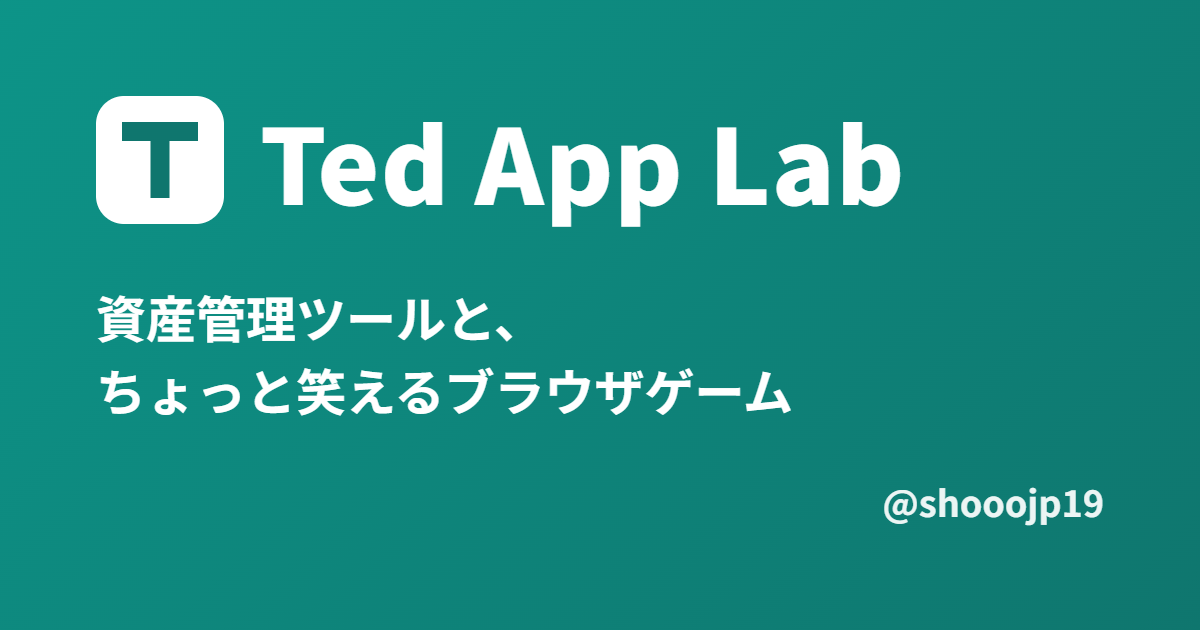
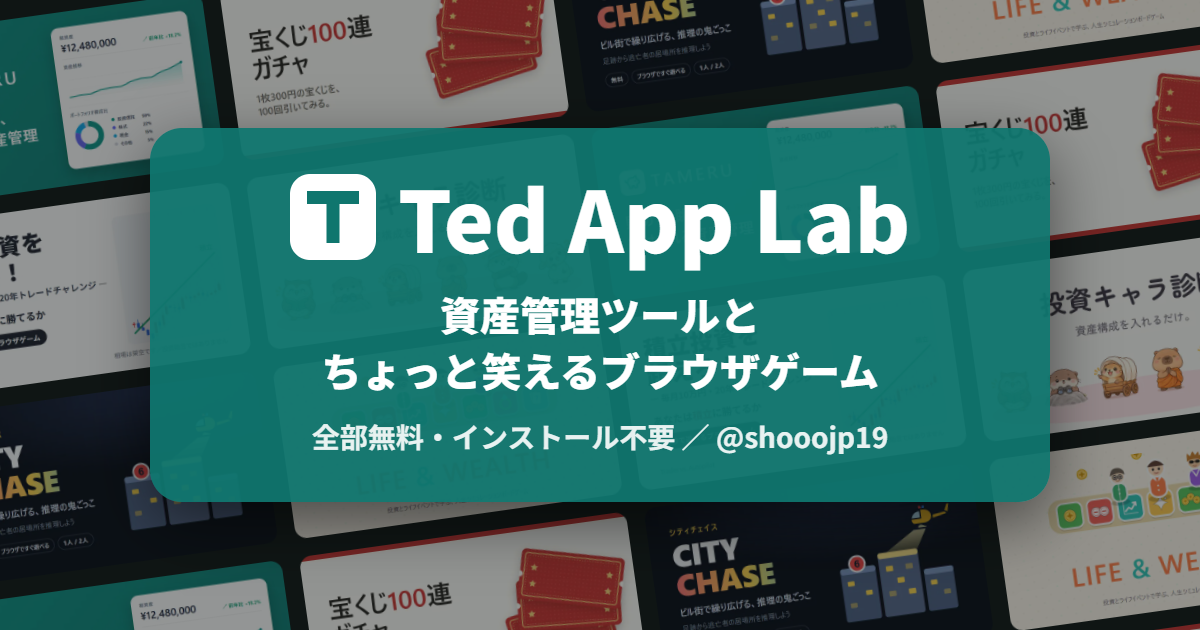
Redo the site preview image with app screenshots (U17, v1.0.1)
The text-only og.png did not say what the site is. The new one tiles
six app images behind the site name, as chosen by the owner.

diff --git a/scripts/og/og.html b/scripts/og/og.html
@@ -1,5 +1,6 @@
 <!doctype html>
 <!-- サイトの OGP 画像の元（設計書 6.1）。npm run og で 1200×630 の public/og.png にする -->
+<!-- 背景に並べるアプリ（オーナーが決定、2026-11-13）：TAMERU・積立投資を超えろ！・宝くじ100連ガチャ・LIFE & WEALTH・投資キャラ診断・シティチェイス -->
 <html lang="ja">
 <head>
 <meta charset="UTF-8">
@@ -8,31 +9,81 @@
   body {
     width: 1200px;
     height: 630px;
-    box-sizing: border-box;
-    padding: 96px 96px 72px;
-    display: flex;
-    flex-direction: column;
-    background: linear-gradient(135deg, #0d9488 0%, #0f766e 100%);
+    overflow: hidden;
+    position: relative;
+    background: #0f1514;
     color: #ffffff;
     font-family: 'Noto Sans JP', 'Hiragino Sans', 'Yu Gothic UI', 'Meiryo', sans-serif;
   }
-  .brand { display: flex; align-items: center; gap: 36px; }
+  /* アプリの画像を傾けて敷き詰め、暗くする */
+  .wall {
+    position: absolute;
+    inset: -60px -80px;
+    display: grid;
+    grid-template-columns: repeat(4, 330px);
+    gap: 18px;
+    transform: rotate(-8deg);
+    opacity: 0.55;
+  }
+  .wall img { width: 330px; height: 173px; border-radius: 12px; object-fit: cover; }
+  .panel {
+    position: absolute;
+    left: 50%;
+    top: 50%;
+    transform: translate(-50%, -50%);
+    width: 900px;
+    box-sizing: border-box;
+    padding: 46px 56px;
+    border-radius: 32px;
+    background: rgba(15, 118, 110, 0.94);
+    box-shadow: 0 20px 60px rgba(0, 0, 0, 0.5);
+    text-align: center;
+  }
+  .brand { display: flex; align-items: center; justify-content: center; gap: 22px; }
   .logo {
-    width: 128px; height: 128px; border-radius: 28px; background: #ffffff;
+    width: 86px; height: 86px; border-radius: 20px; background: #ffffff;
     display: flex; align-items: center; justify-content: center;
   }
-  .logo svg { width: 76px; height: 76px; }
-  h1 { margin: 0; font-size: 104px; font-weight: 800; letter-spacing: 0.01em; line-height: 1; }
-  .sub { margin-top: 56px; font-size: 50px; font-weight: 700; line-height: 1.45; }
-  .handle { margin-top: auto; align-self: flex-end; font-size: 36px; font-weight: 600; opacity: 0.92; }
+  .logo svg { width: 52px; height: 52px; }
+  h1 { margin: 0; font-size: 84px; font-weight: 800; line-height: 1; }
+  .sub { margin: 26px 0 0; font-size: 40px; font-weight: 800; line-height: 1.4; }
+  .note { margin: 18px 0 0; font-size: 28px; font-weight: 700; opacity: 0.9; }
 </style>
 </head>
 <body>
-  <div class="brand">
-    <div class="logo"><svg viewBox="16 17 32 32"><path d="M16 17h32v8H36v24h-8V25H16z" fill="#0f766e"/></svg></div>
-    <h1>Ted App Lab</h1>
+  <div class="wall">
+    <img src="../../public/images/tameru.webp" alt="">
+    <img src="../../public/images/takarakuji-gacha.webp" alt="">
+    <img src="../../public/images/city-chase.webp" alt="">
+    <img src="../../public/images/life-wealth.webp" alt="">
+    <img src="../../public/images/trader-vs-autopilot.webp" alt="">
+    <img src="../../public/images/portfolio-pals.webp" alt="">
+    <img src="../../public/images/tameru.webp" alt="">
+    <img src="../../public/images/takarakuji-gacha.webp" alt="">
+    <img src="../../public/images/city-chase.webp" alt="">
+    <img src="../../public/images/life-wealth.webp" alt="">
+    <img src="../../public/images/trader-vs-autopilot.webp" alt="">
+    <img src="../../public/images/portfolio-pals.webp" alt="">
+    <img src="../../public/images/tameru.webp" alt="">
+    <img src="../../public/images/takarakuji-gacha.webp" alt="">
+    <img src="../../public/images/city-chase.webp" alt="">
+    <img src="../../public/images/life-wealth.webp" alt="">
+    <img src="../../public/images/trader-vs-autopilot.webp" alt="">
+    <img src="../../public/images/portfolio-pals.webp" alt="">
+    <img src="../../public/images/tameru.webp" alt="">
+    <img src="../../public/images/takarakuji-gacha.webp" alt="">
+    <img src="../../public/images/city-chase.webp" alt="">
+    <img src="../../public/images/life-wealth.webp" alt="">
+    <img src="../../public/images/trader-vs-autopilot.webp" alt="">
+    <img src="../../public/images/portfolio-pals.webp" alt="">
   </div>
-  <p class="sub">資産管理ツールと、<br>ちょっと笑えるブラウザゲーム</p>
-  <p class="handle">@shooojp19</p>
+  <div class="panel">
+    <div class="brand">
+      <div class="logo"><svg viewBox="16 17 32 32"><path d="M16 17h32v8H36v24h-8V25H16z" fill="#0f766e"/></svg></div>
+      <h1>Ted App Lab</h1>
+    </div>
+    <p class="sub">資産管理ツールと<br>ちょっと笑えるブラウザゲーム</p>
+    <p class="note">全部無料・インストール不要 ／ @shooojp19</p>
+  </div>
 </body>
 </html>

diff --git a/docs/要件定義書.md b/docs/要件定義書.md
@@ -3,6 +3,7 @@
 - サイト名：**Ted App Lab**
 - 管理番号：PORTAL（フォルダ名 `PORTAL_TedAppLab`）
 - 版：v1.0（2026-11-11）… 初版
+- 版：v1.7（2026-11-13）… U17：サイトの OGP 画像を決定
 - 版：v1.6（2026-11-13）… 金塊、ちっさ！を準備中として載せるアプリに追加（4章・U12。オーナー：まだ公開しない）
 - 版：v1.5（2026-11-12）… U15：X のアイコンの画像を入れた
 - 版：v1.4（2026-11-12）… U18：永田町ポリティクスはカードの裏面だけを切り抜いて使う（オーナーが決定）
@@ -103,7 +104,7 @@
 | U14 | お知らせの最初の3件 | マーケティングマネージャー → オーナー | 案：各アプリの公開日（`data\news.json`）。まとめサイトの公開時に「Ted App Lab を公開しました」を足す |
 | U15 | X のアイコンの画像 | 済み（オーナーが用意、2026-11-12） | X で使っているコアラの絵（400×400）。`assets-src/avatar.png` から 112×112 の `public/images/avatar.webp`（3KB）を作り、丸く切り抜いて出す |
 | U16 | 公開する URL | 決定（オーナー、2026-11-11） | **`app-lab-rust.vercel.app`**。Vercel のプロジェクト `app-lab` に自動で付いた URL のまま使う（`ted-app-lab.vercel.app` は足さない） |
-| U17 | サイト自体の OGP 画像の見た目 | 実装時に案を作り、オーナーが確認 | 設計書 6.1 |
+| U17 | サイト自体の OGP 画像の見た目 | 決定（オーナー、2026-11-13） | 4つの案から D（6つのアプリの画像を敷き詰め、真ん中にサイト名と説明）を選んだ。設計書 6.1 |
 | U18 | 永田町ポリティクスの画像 | 決定（オーナー、2026-11-12） | **ゲーム画面の右側（ロゴ入りのカードの裏面）だけを切り抜いて使う**。画面の中ほどに政党名の文字と実在の政治家1人の似顔絵カードがあり、横幅いっぱいでは避けられないため、そこを入れない範囲にした。アプリ側で中立な OGP 画像ができたら差し替える |
 
 ## 4. 載せるアプリ（2026-11-11 時点）

diff --git a/docs/設計書.md b/docs/設計書.md
@@ -2,6 +2,7 @@
 
 - サイト名：**Ted App Lab**
 - 版：v1.0（2026-11-11）… 初版
+- 版：v1.9（2026-11-13）… 6.1：サイトの OGP 画像を、アプリの画像を敷き詰めた案（D）に決定（U17）
 - 版：v1.8（2026-11-13）… 金塊、ちっさ！（tiny-gold-bar）を準備中として追加（2章・4.2・5.1・6.2・7.2）
 - 版：v1.7（2026-11-12）… 6.2：準備中の3つにも各アプリの画像を載せる（宝くじ・投資キャラ診断は OGP、LIFE & WEALTH はタイトル画面）
 - 版：v1.6（2026-11-12）… 6.2：永田町ポリティクスはカードの裏面だけを切り抜く（U18）
@@ -336,7 +337,8 @@
 | `og:type`・`og:locale`・`og:site_name` | website、ja_JP、Ted App Lab |
 | `twitter:card` | `summary_large_image`（大きい画像で出す） |
 
-- `og.png` の見た目【案】（U17）：緑青の地に「Ted App Lab」、その下に「資産管理ツールと、ちょっと笑えるブラウザゲーム」、右下に「@shooojp19」。アプリの画像は並べない（アプリが増えるたびに作り直さずに済むように）
+- `og.png` の見た目（U17、2026-11-13 オーナーが決定）：アプリの画像を傾けて暗く敷き詰め、真ん中の緑青のパネルに「Ted App Lab」、「資産管理ツールと ちょっと笑えるブラウザゲーム」、「全部無料・インストール不要 ／ @shooojp19」。最初の案（文字だけ）は、何のサイトか分かりにくいため替えた
+- 背景に使うアプリ（オーナーが決定）：TAMERU・積立投資を超えろ！・宝くじ100連ガチャ・LIFE & WEALTH・投資キャラ診断・シティチェイス。永田町ポリティクス・金塊、ちっさ！は入れない。替えるときは `scripts/og/og.html` の画像を直して `npm run og`
 - 作り方：`scripts/og/og.html` を Playwright（ブラウザを動かす道具）で 1200×630 の画像にする（TAMERU と同じやり方）。作った `public/og.png` をリポジトリに入れる
 
 ### 6.2 アプリの画像（U6）

diff --git a/docs/ロードマップ.md b/docs/ロードマップ.md
@@ -111,7 +111,7 @@
 - [x] M4：永田町ポリティクスの画像（U18）→ カードの裏面だけを切り抜く、で決定（2026-11-12）
 - [ ] M4：サイトのアイコン（緑青の角丸に白の「T」）【案】
 - [x] M4：X のアイコンの画像を渡す（U15）→ 入れた（2026-11-12）
-- [ ] M5：サイトの OGP 画像（`public/og.png`）の見た目（U17）
+- [x] M5：サイトの OGP 画像（`public/og.png`）の見た目（U17）→ 4つの案から D に決定（2026-11-13）
 - [ ] M5：X に URL を貼って、大きい画像で出るか
 - [ ] M6：📣 紹介文（U11）・ゲームの並び順（U12）・お知らせの最初の3件（U14）・note 記事（U13）
 - [ ] M6：端末（iPhone・Android・X と note のアプリの中のブラウザ・PC）で開く
@@ -157,3 +157,4 @@
 | 2026-11-13 | 新しいゲーム「金塊、ちっさ！」（v1.0.0 公開済み）をカードとお知らせに追加。並び順は仮（U12 で確認）。v0.6.0 |
 | 2026-11-13 | 金塊、ちっさ！は**まだ公開しない**（オーナー）。準備中に戻し、公開のお知らせを外した。v0.6.1 |
 | 2026-11-13 | M7。v1.0.0 で一般公開（オーナーの指示）。お知らせに「Ted App Lab を公開しました」。残りのオーナーの確認は公開後に |
+| 2026-11-13 | サイトの OGP 画像を作り直した（U17：アプリ6つの画像を敷き詰めた案 D）。v1.0.1 |
